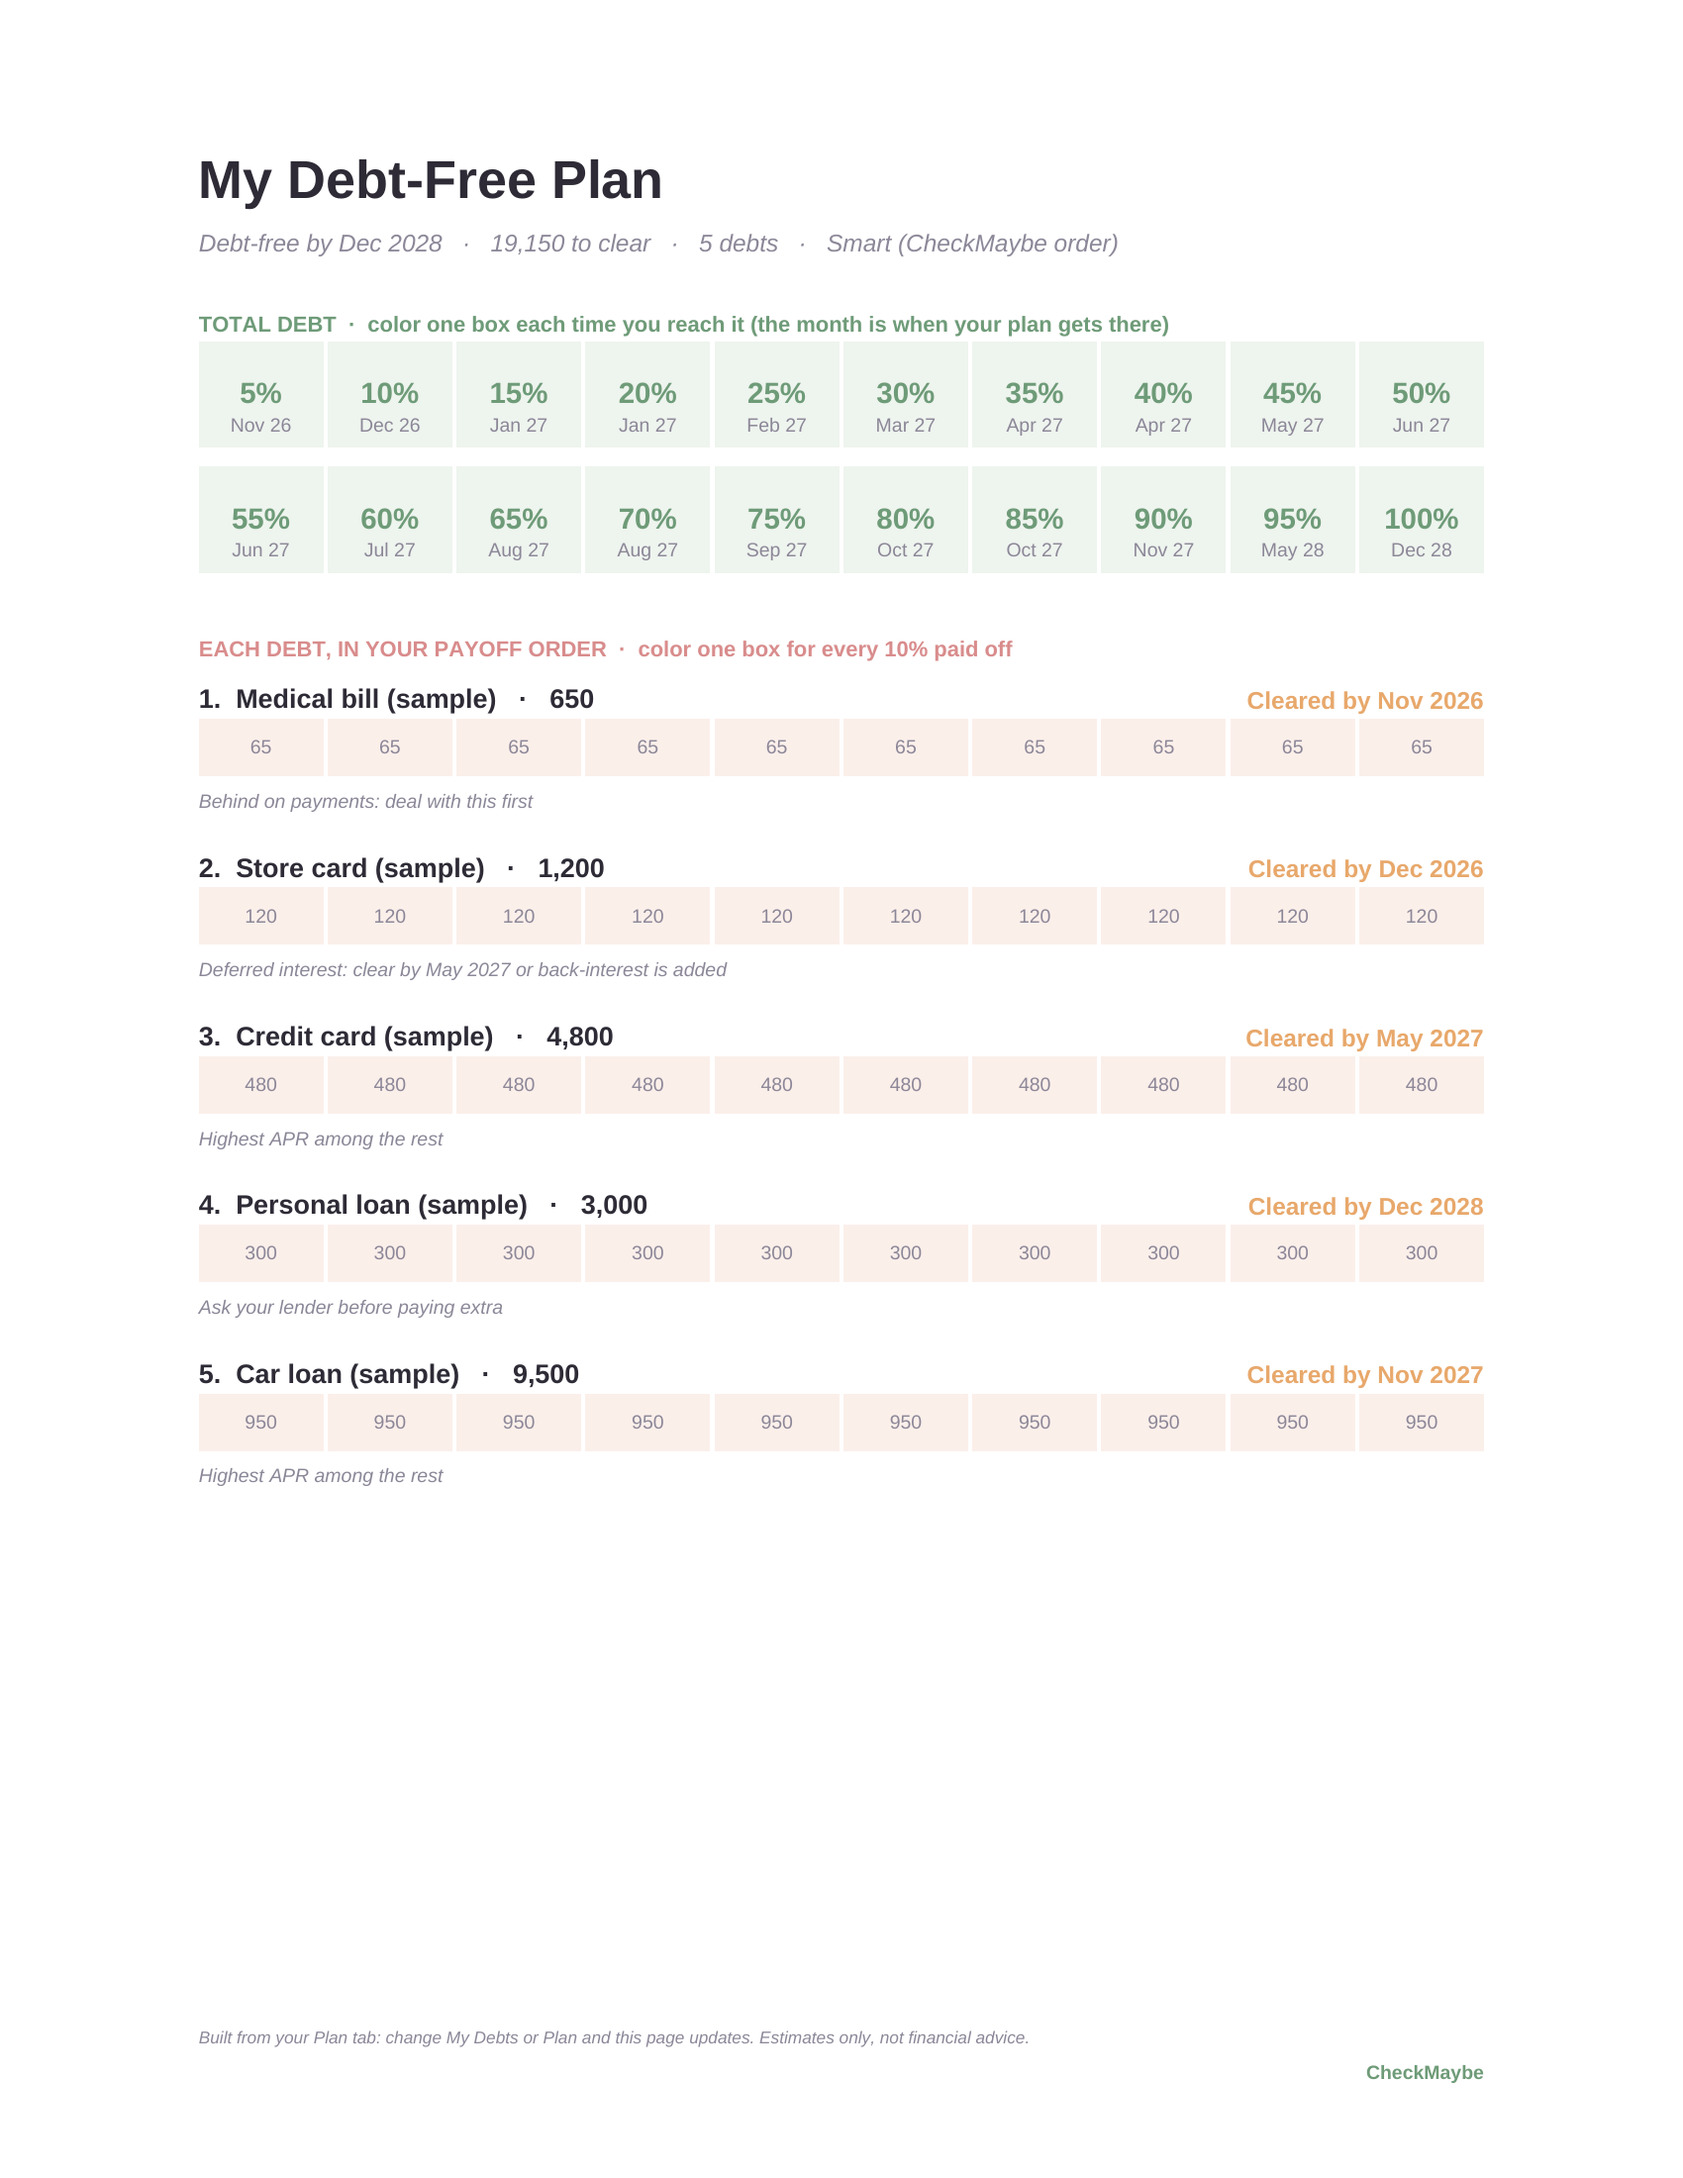
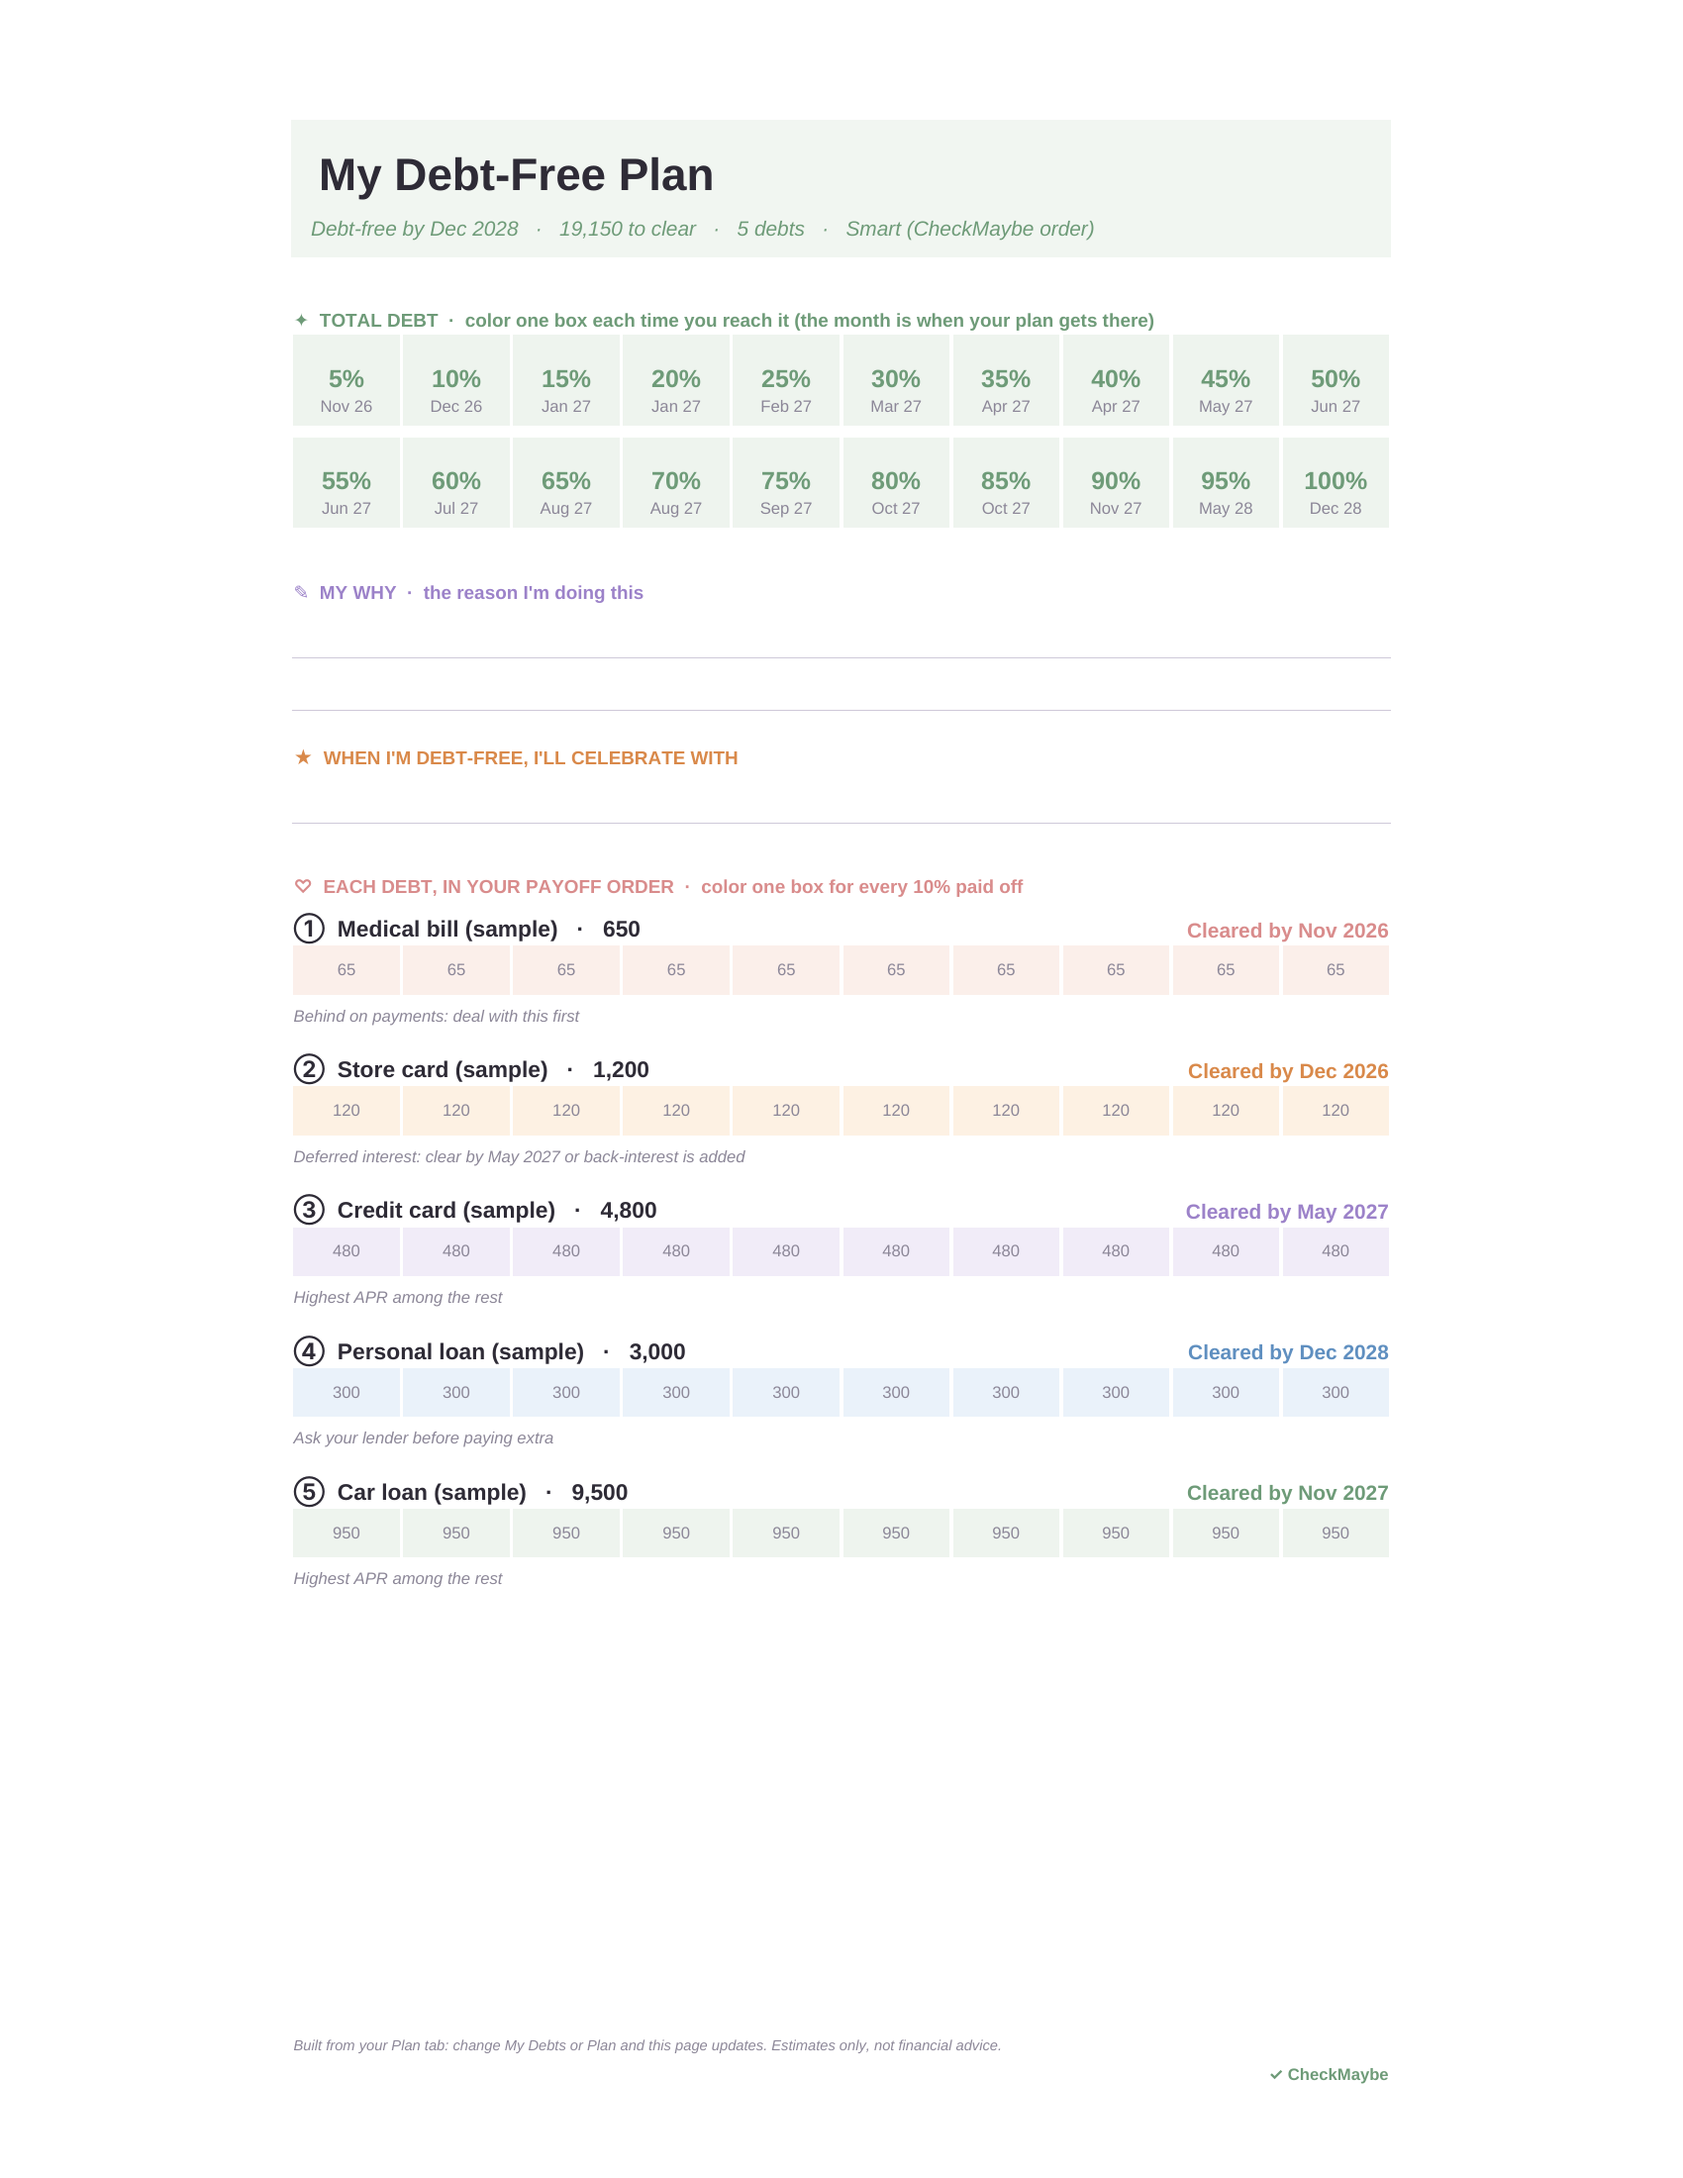
Debt Payoff Planner Print tab: title band, per-debt colors, My why and celebration lines
Claude-Session: https://claude.ai/code/session_01C31xGpXxLcjXH3oTDRifkH

diff --git a/products/debt-payoff-planner/build_planner.py b/products/debt-payoff-planner/build_planner.py
@@ -342,77 +342,89 @@ pl.add_chart(bc, "H46")
 
 # ======================= Print (light, one page, color-in tracker built from the plan) =======================
 from openpyxl.worksheet.properties import PageSetupProperties
-from openpyxl.styles.differential import DifferentialStyle
-PW, INK, SOFT, SAGE, BLUSH, PEACH, CREAM, BOXLINE = "FFFFFF", "2E2B36", "8C8798", "6E9B78", "D98C8C", "E8A86B", "FBF8F3", "B9B3C4"
+PW, INK, SOFT, SAGE, LILAC, BAND = "FFFFFF", "2E2B36", "8C8798", "6E9B78", "9C82C9", "F1F6F1"
+DEBT_COLORS = [("FBEFEA", "D98C8C"), ("FDF1E3", "D9894A"), ("F1ECF8", "9C82C9"), ("EAF2FA", "5F8FC0"), ("EEF4EE", "6E9B78")]
 FP = lambda c=INK, b=False, s=10, i=False: Font(name="Arial", color=c, bold=b, size=s, italic=i)
 pr = wb.create_sheet("Print"); pr.sheet_view.showGridLines = False
 pr.column_dimensions["A"].width = 2.5
 for k in range(10): pr.column_dimensions[L(2 + k)].width = 9.6
 pr.column_dimensions["L"].width = 2.5
-for r in range(1, 61):
+for r in range(1, 70):
     for c in range(1, 13): pr.cell(r, c).fill = fill(PW)
 cnt = S["count"]
 start_total = f"SUMPRODUCT(('My Debts'!$D${R0}:$D${RN}>0)*N(+'My Debts'!$D${R0}:$D${RN}))"
-pr.merge_cells("B2:K2"); pr["B2"] = "My Debt-Free Plan"; pr["B2"].font = FP(INK, True, 22); pr.row_dimensions[2].height = 36
-pr.merge_cells("B3:K3")
-pr["B3"] = (f'=IF({cnt}=0,"Add your debts on My Debts first.",'
-            f'IF(ISNUMBER(Plan!$I$5),"Debt-free by "&TEXT(Plan!$I$5,"mmm yyyy")&"   ·   "&TEXT({start_total},"#,##0")&" to clear   ·   "&{cnt}&" debts   ·   "&Plan!$C$9,'
-            f'"Your plan doesn\'t finish within 30 years: raise the monthly amount on Plan."))')
-pr["B3"].font = FP(SOFT, False, 10, True); pr.row_dimensions[3].height = 20
-
 GAP = Side(style="medium", color=PW); GAPB = Border(left=GAP, right=GAP, top=GAP, bottom=GAP)
+LINEB = Border(bottom=Side(style="thin", color="CFC9D9"))
 def box_fill(ws, rng, color):
     # Google Sheets ignores borders in conditional formats, so boxes are a soft fill with white gaps
     ws.conditional_formatting.add(rng, FormulaRule(formula=[f'{rng.split(":")[0].replace("$", "")}<>""'], fill=fill(color)))
+def heading(r, text, color):
+    pr.merge_cells(f"B{r}:K{r}"); pr[f"B{r}"] = text; pr[f"B{r}"].font = FP(color, True, 9)
+    pr[f"B{r}"].alignment = Alignment(vertical="bottom"); pr.row_dimensions[r].height = 22
 
-GAP = Side(style="medium", color=PW); GAPB = Border(left=GAP, right=GAP, top=GAP, bottom=GAP)
-pr.merge_cells("B5:K5"); pr["B5"] = "TOTAL DEBT  ·  color one box each time you reach it (the month is when your plan gets there)"
-pr["B5"].font = FP(SAGE, True, 9); pr.row_dimensions[5].height = 18
+# title band
+for r in (2, 3, 4):
+    for c in range(2, 12): pr.cell(r, c).fill = fill(BAND)
+pr.merge_cells("B2:K2"); pr["B2"] = "  My Debt-Free Plan"; pr["B2"].font = FP(INK, True, 22)
+pr["B2"].alignment = Alignment(vertical="bottom"); pr.row_dimensions[2].height = 40
+pr.merge_cells("B3:K3")
+pr["B3"] = (f'=IF({cnt}=0,"   Add your debts on My Debts first.",'
+            f'IF(ISNUMBER(Plan!$I$5),"   Debt-free by "&TEXT(Plan!$I$5,"mmm yyyy")&"   ·   "&TEXT({start_total},"#,##0")&" to clear   ·   "&{cnt}&" debts   ·   "&Plan!$C$9,'
+            f'"   Your plan doesn\'t finish within 30 years: raise the monthly amount on Plan."))')
+pr["B3"].font = FP(SAGE, False, 10, True); pr.row_dimensions[3].height = 20; pr.row_dimensions[4].height = 8
+
+heading(6, "✦  TOTAL DEBT  ·  color one box each time you reach it (the month is when your plan gets there)", SAGE)
 for k in range(1, 21):
-    row = 6 if k <= 10 else 9; col = L(2 + (k - 1) % 10)
+    row = 7 if k <= 10 else 10; col = L(2 + (k - 1) % 10)
     thr = f"{start_total}*(1-{k}/20)"
     hit = f"MATCH(1,INDEX((Schedule!$D$6:$D${5 + MONTHS}<={thr}+0.005)*1,0),0)"
     a = pr[f"{col}{row}"]; a.value = f'=IF({cnt}=0,"",TEXT({k * 5},"0")&"%")'
     a.font = FP(SAGE, True, 12); a.alignment = Alignment(horizontal="center", vertical="bottom")
+    a.border = Border(left=GAP, right=GAP, top=GAP); a.fill = fill("EEF4EE")
     b = pr[f"{col}{row + 1}"]
     b.value = f'=IF({cnt}=0,"",IFERROR(TEXT(INDEX(Schedule!$B$6:$B${5 + MONTHS},{hit}),"mmm yy"),"-"))'
     b.font = FP(SOFT, False, 8); b.alignment = Alignment(horizontal="center", vertical="top")
+    b.border = Border(left=GAP, right=GAP, bottom=GAP); b.fill = fill("EEF4EE")
     pr.row_dimensions[row].height = 30; pr.row_dimensions[row + 1].height = 16
-for row in (6, 9):
-    for c in range(10):
-        col = L(2 + c)
-        pr[f"{col}{row}"].border = Border(left=GAP, right=GAP, top=GAP); pr[f"{col}{row}"].fill = fill("EEF4EE")
-        pr[f"{col}{row + 1}"].border = Border(left=GAP, right=GAP, bottom=GAP); pr[f"{col}{row + 1}"].fill = fill("EEF4EE")
-pr.row_dimensions[8].height = 6
+pr.row_dimensions[9].height = 4
 
-pr.merge_cells("B12:K12"); pr["B12"] = "EACH DEBT, IN YOUR PAYOFF ORDER  ·  color one box for every 10% paid off"
-pr["B12"].font = FP(BLUSH, True, 9); pr.row_dimensions[12].height = 22
+heading(20, "♡  EACH DEBT, IN YOUR PAYOFF ORDER  ·  color one box for every 10% paid off", "D98C8C")
 SHOW = 8
 for k in range(1, SHOW + 1):
-    r = 13 + (k - 1) * 4; src = 30 + k
+    r = 21 + (k - 1) * 4; src = 30 + k; bg, acc = DEBT_COLORS[(k - 1) % len(DEBT_COLORS)]
     pr.merge_cells(f"B{r}:G{r}")
-    pr[f"B{r}"] = f'=IF(Plan!$C${src}="","",{k}&".  "&Plan!$C${src}&"   ·   "&TEXT(Plan!$D${src},"#,##0"))'
+    pr[f"B{r}"] = f'=IF(Plan!$C${src}="","","{chr(0x2460 + k - 1)}  "&Plan!$C${src}&"   ·   "&TEXT(Plan!$D${src},"#,##0"))'
     pr[f"B{r}"].font = FP(INK, True, 11); pr[f"B{r}"].alignment = Alignment(vertical="bottom")
     pr.merge_cells(f"H{r}:K{r}")
     pr[f"H{r}"] = f'=IF(Plan!$C${src}="","",IF(ISNUMBER(Plan!$F${src}),"Cleared by "&TEXT(Plan!$F${src},"mmm yyyy"),"Not cleared in 30 yrs"))'
-    pr[f"H{r}"].font = FP(PEACH, True, 10); pr[f"H{r}"].alignment = Alignment(horizontal="right", vertical="bottom")
+    pr[f"H{r}"].font = FP(acc, True, 10); pr[f"H{r}"].alignment = Alignment(horizontal="right", vertical="bottom")
     pr.row_dimensions[r].height = 22
     for c in range(10):
         col = L(2 + c)
         x = pr[f"{col}{r + 1}"]; x.value = f'=IF(Plan!$C${src}="","",TEXT(Plan!$D${src}/10,"#,##0"))'
         x.font = FP(SOFT, False, 8); x.alignment = Alignment(horizontal="center", vertical="center"); x.border = GAPB
-    box_fill(pr, f"B{r + 1}:K{r + 1}", "FBEFEA")
+    box_fill(pr, f"B{r + 1}:K{r + 1}", bg)
     pr.row_dimensions[r + 1].height = 26
     pr.merge_cells(f"B{r + 2}:K{r + 2}")
     pr[f"B{r + 2}"] = f'=IF(Plan!$C${src}="","",Plan!$G${src})'
     pr[f"B{r + 2}"].font = FP(SOFT, False, 8, True); pr.row_dimensions[r + 2].height = 15
-    pr.row_dimensions[r + 3].height = 8
-foot = 13 + SHOW * 4
+    pr.row_dimensions[r + 3].height = 6
+
+w = 13
+heading(w, "✎  MY WHY  ·  the reason I'm doing this", LILAC)
+for r in (w + 1, w + 2):
+    for c in range(2, 12): pr.cell(r, c).border = LINEB
+    pr.row_dimensions[r].height = 26
+pr.row_dimensions[w + 3].height = 8
+heading(w + 4, "★  WHEN I'M DEBT-FREE, I'LL CELEBRATE WITH", "D9894A")
+for c in range(2, 12): pr.cell(w + 5, c).border = LINEB
+pr.row_dimensions[w + 5].height = 26
+foot = 21 + SHOW * 4
 pr.merge_cells(f"B{foot}:K{foot}")
 pr[f"B{foot}"] = (f'=IF({cnt}>{SHOW},"+ "&({cnt}-{SHOW})&" more debts on the Plan tab.  ","")&'
                   '"Built from your Plan tab: change My Debts or Plan and this page updates. Estimates only, not financial advice."')
 pr[f"B{foot}"].font = FP(SOFT, False, 7, True); pr[f"B{foot}"].alignment = Alignment(wrap_text=True)
-pr.merge_cells(f"B{foot + 1}:K{foot + 1}"); pr[f"B{foot + 1}"] = "CheckMaybe"; pr[f"B{foot + 1}"].font = FP(SAGE, True, 8)
+pr.merge_cells(f"B{foot + 1}:K{foot + 1}"); pr[f"B{foot + 1}"] = "✓ CheckMaybe"; pr[f"B{foot + 1}"].font = FP(SAGE, True, 8)
 pr[f"B{foot + 1}"].alignment = Alignment(horizontal="right")
 pr.print_area = f"A1:L{foot + 1}"
 pr.page_setup.orientation = "portrait"; pr.page_setup.paperSize = pr.PAPERSIZE_LETTER
